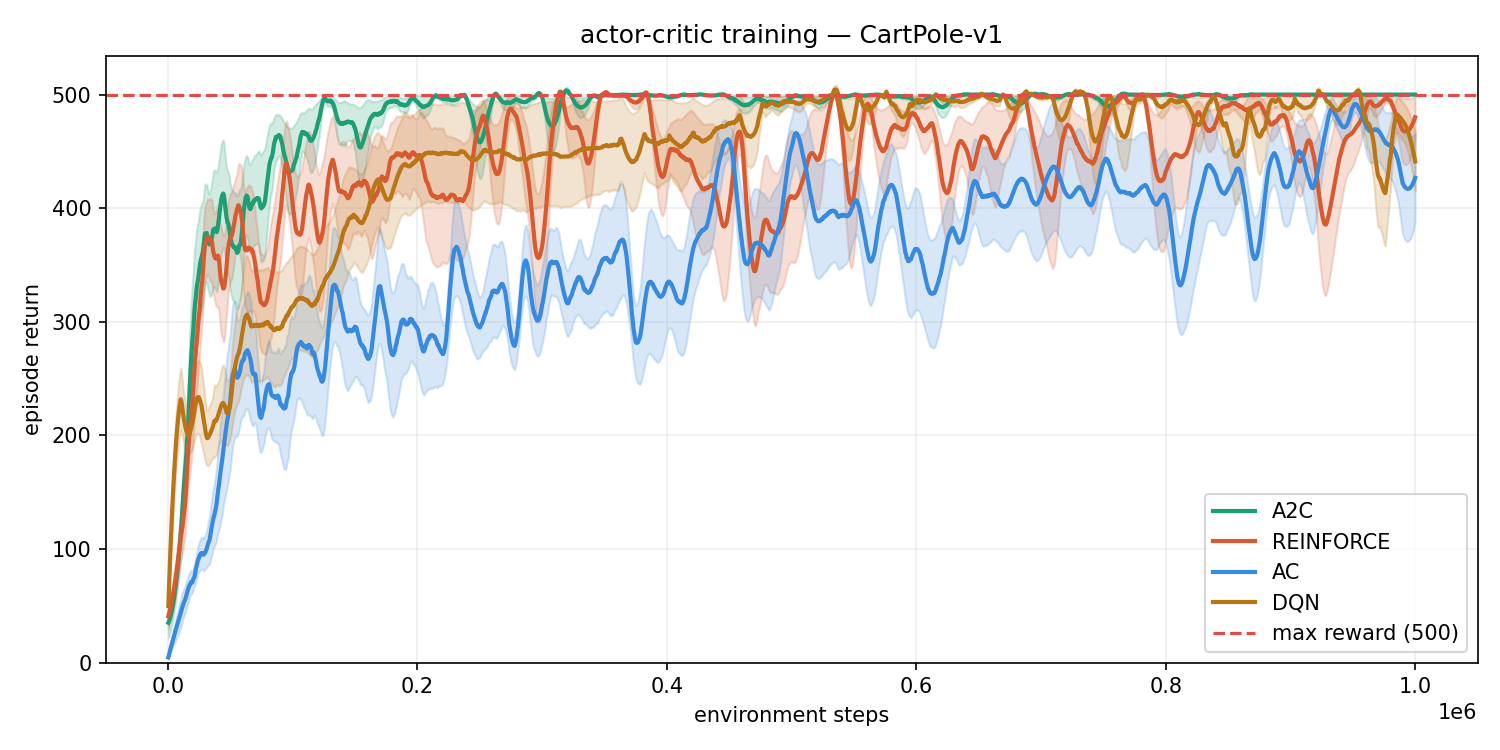
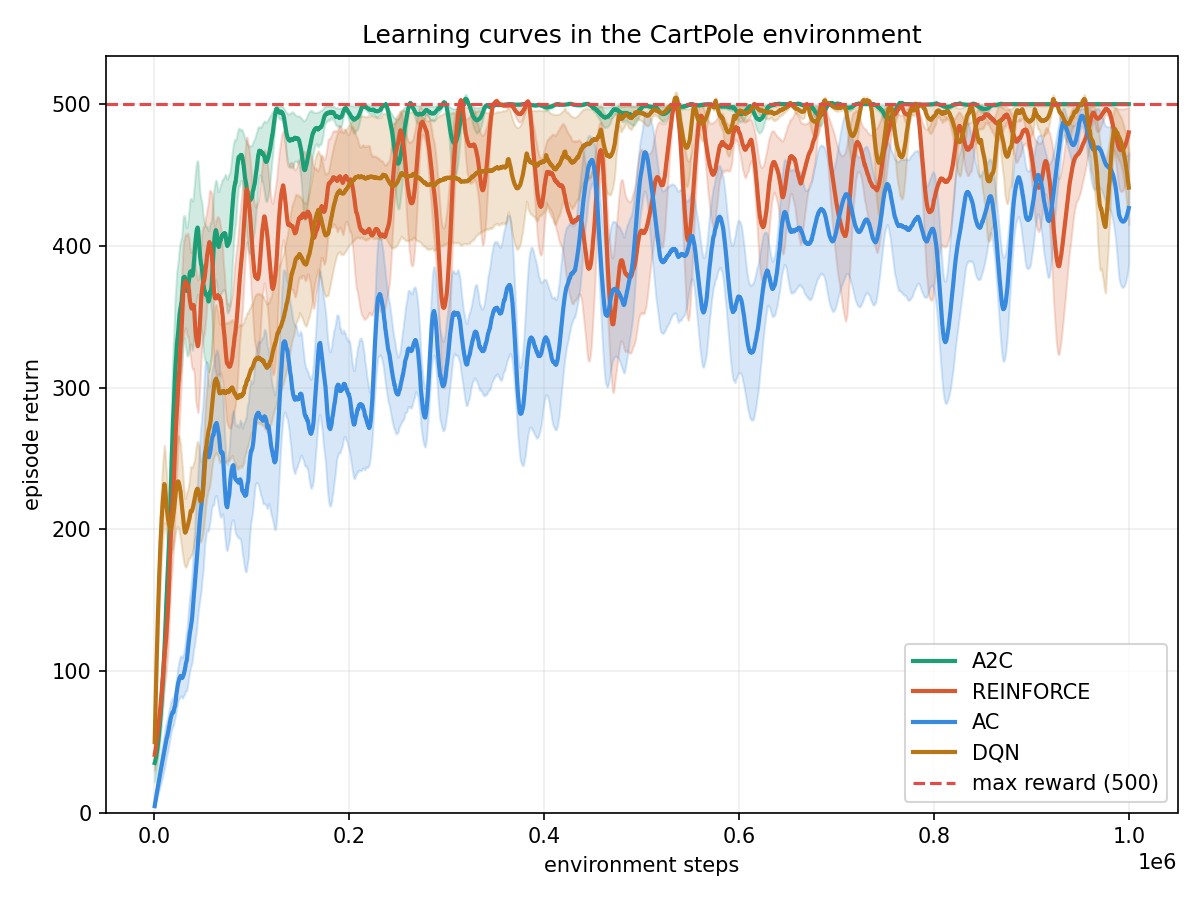
remove prints and update result plot

Changed region(s): [[0.0, 0.0307, 0.9867, 0.9813]]

diff --git a/experiment.py b/experiment.py
@@ -52,8 +52,6 @@ def get_full_run_results(file_name,learner_type:ModelFreeLearner,num_repetitions
         results.append(np.array(curr_eval_returns))
     
     results = np.array(results)
-    print(results)
-    print(curr_eval_timesteps)
     #export evaluation to a csv file
     df = pd.DataFrame({
         "eval_timesteps": list(map(int, curr_eval_timesteps)),
@@ -93,7 +91,7 @@ def plot_full_runs(solved_threshold=500, num_repetitions = 5):
     #define smoothing window
     smoothing_window = 81
     colors = ["#1D9E75", "#D85A30", "#378ADD", "#BA7517"]
-    fig, ax = plt.subplots(figsize=(10, 5))
+    fig, ax = plt.subplots(figsize=(8, 6))
     #plot for every item collected, adding smoothing with a savgol_filter
     for item, color in zip(items, colors):
         smooth = savgol_filter(item['y'],smoothing_window,2)
@@ -108,7 +106,7 @@ def plot_full_runs(solved_threshold=500, num_repetitions = 5):
 
     ax.set_xlabel("environment steps")
     ax.set_ylabel("episode return")
-    ax.set_title("actor-critic training — CartPole-v1")
+    ax.set_title("Learning curves in the CartPole environment")
     ax.legend()
     ax.grid(alpha=0.2)
     ax.set_ylim(bottom=0)
@@ -119,9 +117,9 @@ def plot_full_runs(solved_threshold=500, num_repetitions = 5):
 #select a seed to make results replicable
 torch.manual_seed(2001)
 
-get_full_run_results('REINFORCE', REINFORCE, budget = 1e6)
-get_full_run_results('AC', AC, budget = 1e6)
-get_full_run_results('A2C', A2C, budget = 1e6, critic_lr = 1e-4)
+#get_full_run_results('REINFORCE', REINFORCE, budget = 1e6)
+#get_full_run_results('AC', AC, budget = 1e6)
+#get_full_run_results('A2C', A2C, budget = 1e6, critic_lr = 1e-4)
 plot_full_runs()
 
 
